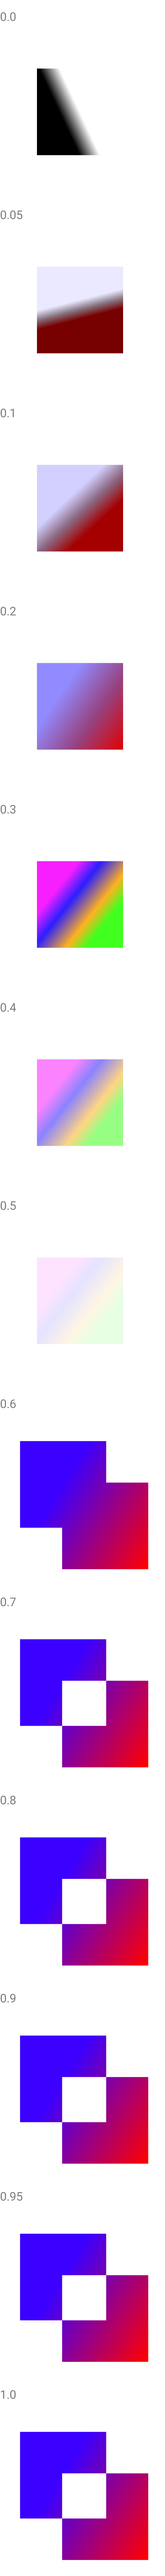
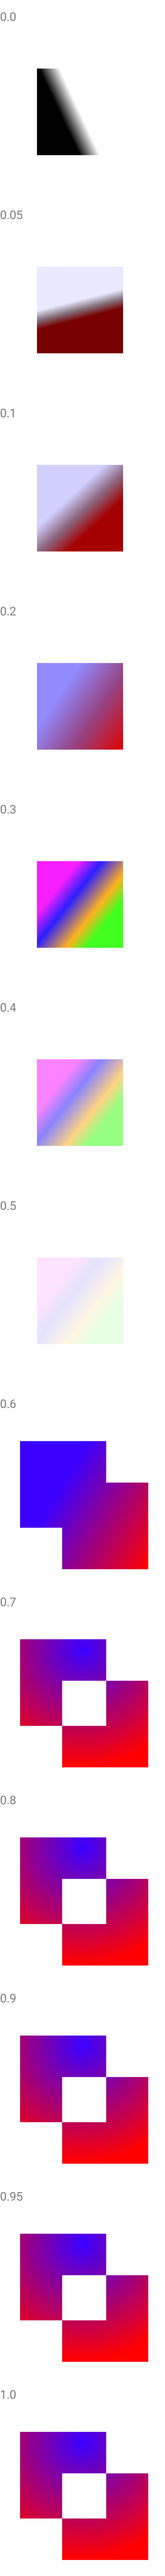
Added initial support for trim paths individually (#204)

Changed region(s): [[0.12, 0.6236, 0.87, 0.9978]]

diff --git a/lottie/src/main/java/com/airbnb/lottie/StrokeContent.java b/lottie/src/main/java/com/airbnb/lottie/StrokeContent.java
@@ -5,6 +5,7 @@ import android.graphics.DashPathEffect;
 import android.graphics.Matrix;
 import android.graphics.Paint;
 import android.graphics.Path;
+import android.graphics.PathMeasure;
 import android.graphics.RectF;
 import android.support.annotation.Nullable;
 
@@ -12,11 +13,13 @@ import java.util.ArrayList;
 import java.util.List;
 
 class StrokeContent implements DrawingContent, BaseKeyframeAnimation.AnimationListener {
+  private final PathMeasure pm = new PathMeasure();
   private final Path path = new Path();
+  private final Path trimPathPath = new Path();
   private final Paint paint = new Paint(Paint.ANTI_ALIAS_FLAG);
   private final RectF rect = new RectF();
   private final LottieDrawable lottieDrawable;
-  private final List<PathContent> paths = new ArrayList<>();
+  private final List<PathGroup> pathGroups = new ArrayList<>();
   private final float[] dashPatternValues;
 
   private final BaseKeyframeAnimation<?, Integer> colorAnimation;
@@ -75,12 +78,24 @@ class StrokeContent implements DrawingContent, BaseKeyframeAnimation.AnimationLi
   }
 
   @Override public void setContents(List<Content> contentsBefore, List<Content> contentsAfter) {
-    for (int i = 0; i < contentsAfter.size(); i++) {
+    PathGroup currentPathGroup = null;
+    for (int i = contentsAfter.size() - 1; i >= 0; i--) {
       Content content = contentsAfter.get(i);
-      if (content instanceof PathContent) {
-        paths.add((PathContent) content);
+      if (content instanceof TrimPathContent &&
+          ((TrimPathContent) content).getType() == ShapeTrimPath.Type.Individually) {
+        if (currentPathGroup != null) {
+          pathGroups.add(currentPathGroup);
+        }
+        currentPathGroup = new PathGroup((TrimPathContent) content);
+        ((TrimPathContent) content).addListener(this);
+      } else if (content instanceof PathContent) {
+        if (currentPathGroup == null) {
+          currentPathGroup = new PathGroup(null);
+        }
+        currentPathGroup.paths.add((PathContent) content);
       }
     }
+    pathGroups.add(currentPathGroup);
   }
 
   @Override public void draw(Canvas canvas, Matrix parentMatrix, int parentAlpha) {
@@ -94,18 +109,92 @@ class StrokeContent implements DrawingContent, BaseKeyframeAnimation.AnimationLi
     }
     applyDashPatternIfNeeded();
 
-    path.reset();
-    for (int i = 0; i < paths.size(); i++) {
-      this.path.addPath(paths.get(i).getPath(), parentMatrix);
-    }
+    for (int i = 0; i < pathGroups.size(); i++) {
+      PathGroup pathGroup = pathGroups.get(i);
 
-    canvas.drawPath(path, paint);
+
+      if (pathGroup.trimPath != null) {
+        applyTrimPath(canvas, pathGroup, parentMatrix);
+      } else {
+        path.reset();
+        for (int j = pathGroup.paths.size() - 1; j >= 0; j--) {
+          path.addPath(pathGroup.paths.get(j).getPath(), parentMatrix);
+        }
+        canvas.drawPath(path, paint);
+      }
+    }
+  }
+
+  private void applyTrimPath(Canvas canvas, PathGroup pathGroup, Matrix parentMatrix) {
+    if (pathGroup.trimPath == null) {
+      return;
+    }
+    path.reset();
+    for (int j = pathGroup.paths.size() - 1; j >= 0; j--) {
+      path.addPath(pathGroup.paths.get(j).getPath(), parentMatrix);
+    }
+    pm.setPath(path, false);
+    float totalLength = pm.getLength();
+    while (pm.nextContour()) {
+      totalLength += pm.getLength();
+    }
+    float offsetLength = totalLength * pathGroup.trimPath.getOffset().getValue() / 360f;
+    float startLength =
+        totalLength * pathGroup.trimPath.getStart().getValue() / 100f + offsetLength;
+    float endLength =
+        totalLength * pathGroup.trimPath.getEnd().getValue() / 100f + offsetLength;
+
+    float currentLength = 0;
+    for (int j = pathGroup.paths.size() - 1; j >= 0; j--) {
+      trimPathPath.set(pathGroup.paths.get(j).getPath());
+      trimPathPath.transform(parentMatrix);
+      pm.setPath(trimPathPath, false);
+      float length = pm.getLength();
+      if (endLength > totalLength && endLength - totalLength < currentLength + length &&
+          currentLength < endLength - totalLength) {
+        // Draw the segment when the end is greater than the length which wraps around to the
+        // beginning.
+        float startValue;
+        if (startLength > totalLength) {
+          startValue = (startLength - totalLength) / length;
+        } else {
+          startValue = 0;
+        }
+        float endValue = Math.min((endLength - totalLength) / length, 1);
+        Utils.applyTrimPathIfNeeded(trimPathPath, startValue, endValue, 0);
+        canvas.drawPath(trimPathPath, paint);
+      } else //noinspection StatementWithEmptyBody
+        if (currentLength + length < startLength || currentLength > endLength) {
+        // Do nothing
+      } else if (currentLength + length <= endLength && startLength < currentLength) {
+        canvas.drawPath(trimPathPath, paint);
+      } else {
+        float startValue;
+        if (startLength < currentLength) {
+          startValue = 0;
+        } else {
+          startValue = (startLength - currentLength) / length;
+        }
+        float endValue;
+        if (endLength > currentLength + length) {
+          endValue = 1f;
+        } else {
+          endValue = (endLength - currentLength) / length;
+        }
+        Utils.applyTrimPathIfNeeded(trimPathPath, startValue, endValue, 0);
+        canvas.drawPath(trimPathPath, paint);
+      }
+      currentLength += length;
+    }
   }
 
   @Override public void getBounds(RectF outBounds, Matrix parentMatrix) {
     path.reset();
-    for (int i = 0; i < paths.size(); i++) {
-      this.path.addPath(paths.get(i).getPath(), parentMatrix);
+    for (int i = 0; i < pathGroups.size(); i++) {
+      PathGroup pathGroup = pathGroups.get(i);
+      for (int j = 0; j < pathGroup.paths.size(); j++) {
+        path.addPath(pathGroup.paths.get(i).getPath(), parentMatrix);
+      }
     }
     path.computeBounds(rect, false);
 
@@ -147,5 +236,17 @@ class StrokeContent implements DrawingContent, BaseKeyframeAnimation.AnimationLi
     }
     float offset = dashPatternOffsetAnimation == null ? 0f : dashPatternOffsetAnimation.getValue();
     paint.setPathEffect(new DashPathEffect(dashPatternValues, offset));
+  }
+
+  /**
+   * Data class to help drawing trim paths individually.
+   */
+  private static final class PathGroup {
+    private final List<PathContent> paths = new ArrayList<>();
+    @Nullable private final TrimPathContent trimPath;
+
+    private PathGroup(@Nullable TrimPathContent trimPath) {
+      this.trimPath = trimPath;
+    }
   }
 }

diff --git a/lottie/src/main/java/com/airbnb/lottie/ShapeTrimPath.java b/lottie/src/main/java/com/airbnb/lottie/ShapeTrimPath.java
@@ -3,12 +3,31 @@ package com.airbnb.lottie;
 import org.json.JSONObject;
 
 class ShapeTrimPath {
+
+  enum Type {
+    Simultaneously,
+    Individually;
+
+    static Type forId(int id) {
+      switch (id) {
+        case 1:
+          return Simultaneously;
+        case 2:
+          return Individually;
+        default:
+          throw new IllegalArgumentException("Unknown trim path type " + id);
+      }
+    }
+  }
+
+  private final Type type;
   private final AnimatableFloatValue start;
   private final AnimatableFloatValue end;
   private final AnimatableFloatValue offset;
 
-  private ShapeTrimPath(AnimatableFloatValue start, AnimatableFloatValue end, AnimatableFloatValue
-      offset) {
+  private ShapeTrimPath(Type type, AnimatableFloatValue start, AnimatableFloatValue end,
+      AnimatableFloatValue offset) {
+    this.type = type;
     this.start = start;
     this.end = end;
     this.offset = offset;
@@ -20,10 +39,15 @@ class ShapeTrimPath {
 
     static ShapeTrimPath newInstance(JSONObject json, LottieComposition composition) {
       return new ShapeTrimPath(
+          Type.forId(json.optInt("m", 1)),
           AnimatableFloatValue.Factory.newInstance(json.optJSONObject("s"), composition, false),
           AnimatableFloatValue.Factory.newInstance(json.optJSONObject("e"), composition, false),
           AnimatableFloatValue.Factory.newInstance(json.optJSONObject("o"), composition, false));
     }
+  }
+
+  Type getType() {
+    return type;
   }
 
   AnimatableFloatValue getEnd() {

diff --git a/lottie/src/main/java/com/airbnb/lottie/TrimPathContent.java b/lottie/src/main/java/com/airbnb/lottie/TrimPathContent.java
@@ -6,11 +6,13 @@ import java.util.List;
 class TrimPathContent implements Content, BaseKeyframeAnimation.AnimationListener {
 
   private final List<BaseKeyframeAnimation.AnimationListener> listeners = new ArrayList<>();
+  private final ShapeTrimPath.Type type;
   private final BaseKeyframeAnimation<?, Float> startAnimation;
   private final BaseKeyframeAnimation<?, Float> endAnimation;
   private final BaseKeyframeAnimation<?, Float> offsetAnimation;
 
   TrimPathContent(BaseLayer layer, ShapeTrimPath trimPath) {
+    type = trimPath.getType();
     startAnimation = trimPath.getStart().createAnimation();
     endAnimation = trimPath.getEnd().createAnimation();
     offsetAnimation = trimPath.getOffset().createAnimation();
@@ -36,6 +38,10 @@ class TrimPathContent implements Content, BaseKeyframeAnimation.AnimationListene
 
   void addListener(BaseKeyframeAnimation.AnimationListener listener) {
     listeners.add(listener);
+  }
+
+  ShapeTrimPath.Type getType() {
+    return type;
   }
 
   public BaseKeyframeAnimation<?, Float> getStart() {

diff --git a/lottie/src/main/java/com/airbnb/lottie/Utils.java b/lottie/src/main/java/com/airbnb/lottie/Utils.java
@@ -83,16 +83,21 @@ final class Utils {
     if (trimPath == null) {
       return;
     }
+    applyTrimPathIfNeeded(path, trimPath.getStart().getValue() / 100f,
+        trimPath.getEnd().getValue() / 100f, trimPath.getOffset().getValue() / 360f);
+  }
 
+  static void applyTrimPathIfNeeded(
+      Path path, float startValue, float endValue, float offsetValue) {
     pathMeasure.setPath(path, false);
 
     float length = pathMeasure.getLength();
-    float start = length * trimPath.getStart().getValue() / 100f;
-    float end = length * trimPath.getEnd().getValue() / 100f;
+    float start = length * startValue;
+    float end = length * endValue;
     float newStart = Math.min(start, end);
     float newEnd = Math.max(start, end);
 
-    float offset = trimPath.getOffset().getValue() / 360f * length;
+    float offset = offsetValue * length;
     newStart += offset;
     newEnd += offset;
 

diff --git a/lottie/src/main/java/com/airbnb/lottie/ShapeContent.java b/lottie/src/main/java/com/airbnb/lottie/ShapeContent.java
@@ -33,7 +33,9 @@ class ShapeContent implements PathContent, BaseKeyframeAnimation.AnimationListen
   @Override public void setContents(List<Content> contentsBefore, List<Content> contentsAfter) {
     for (int i = 0; i < contentsBefore.size(); i++) {
       Content content = contentsBefore.get(i);
-      if (content instanceof TrimPathContent) {
+      if (content instanceof TrimPathContent &&
+          ((TrimPathContent) content).getType() == ShapeTrimPath.Type.Simultaneously) {
+        // Trim path individually will be handled by the stroke where paths are combined.
         trimPath = (TrimPathContent) content;
         trimPath.addListener(this);
       }

diff --git a/lottie/src/main/java/com/airbnb/lottie/EllipseContent.java b/lottie/src/main/java/com/airbnb/lottie/EllipseContent.java
@@ -42,7 +42,8 @@ class EllipseContent implements PathContent, BaseKeyframeAnimation.AnimationList
   @Override public void setContents(List<Content> contentsBefore, List<Content> contentsAfter) {
     for (int i = 0; i < contentsBefore.size(); i++) {
       Content content = contentsBefore.get(i);
-      if (content instanceof TrimPathContent) {
+      if (content instanceof TrimPathContent &&
+          ((TrimPathContent) content).getType() == ShapeTrimPath.Type.Simultaneously) {
         trimPath = (TrimPathContent) content;
         trimPath.addListener(this);
       }

diff --git a/lottie/src/main/java/com/airbnb/lottie/PolystarContent.java b/lottie/src/main/java/com/airbnb/lottie/PolystarContent.java
@@ -80,7 +80,8 @@ class PolystarContent implements PathContent, BaseKeyframeAnimation.AnimationLis
   @Override public void setContents(List<Content> contentsBefore, List<Content> contentsAfter) {
     for (int i = 0; i < contentsBefore.size(); i++) {
       Content content = contentsBefore.get(i);
-      if (content instanceof TrimPathContent) {
+      if (content instanceof TrimPathContent &&
+          ((TrimPathContent) content).getType() == ShapeTrimPath.Type.Simultaneously) {
         trimPath = (TrimPathContent) content;
         trimPath.addListener(this);
       }

diff --git a/lottie/src/main/java/com/airbnb/lottie/RectangleContent.java b/lottie/src/main/java/com/airbnb/lottie/RectangleContent.java
@@ -46,7 +46,8 @@ class RectangleContent implements PathContent, BaseKeyframeAnimation.AnimationLi
   @Override public void setContents(List<Content> contentsBefore, List<Content> contentsAfter) {
     for (int i = 0; i < contentsBefore.size(); i++) {
       Content content = contentsBefore.get(i);
-      if (content instanceof TrimPathContent) {
+      if (content instanceof TrimPathContent &&
+          ((TrimPathContent) content).getType() == ShapeTrimPath.Type.Simultaneously) {
         trimPath = (TrimPathContent) content;
         trimPath.addListener(this);
       }
